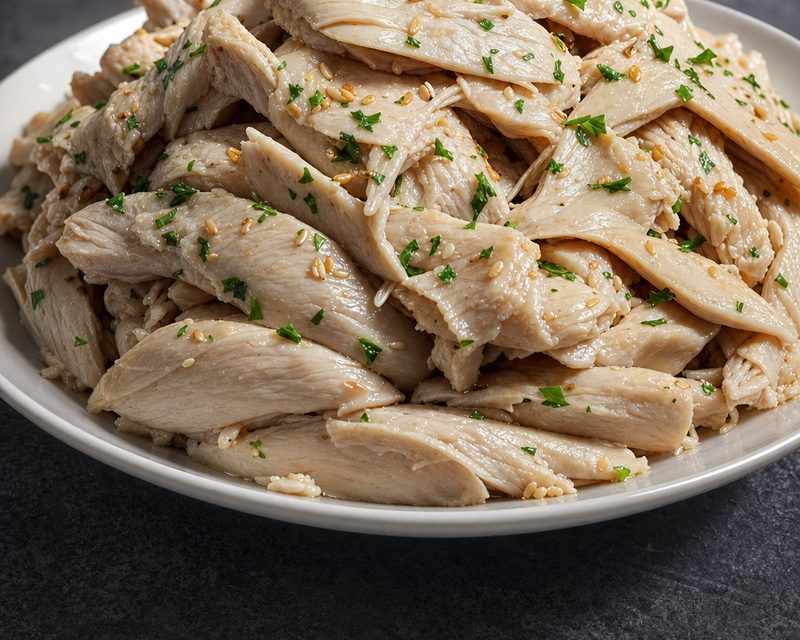
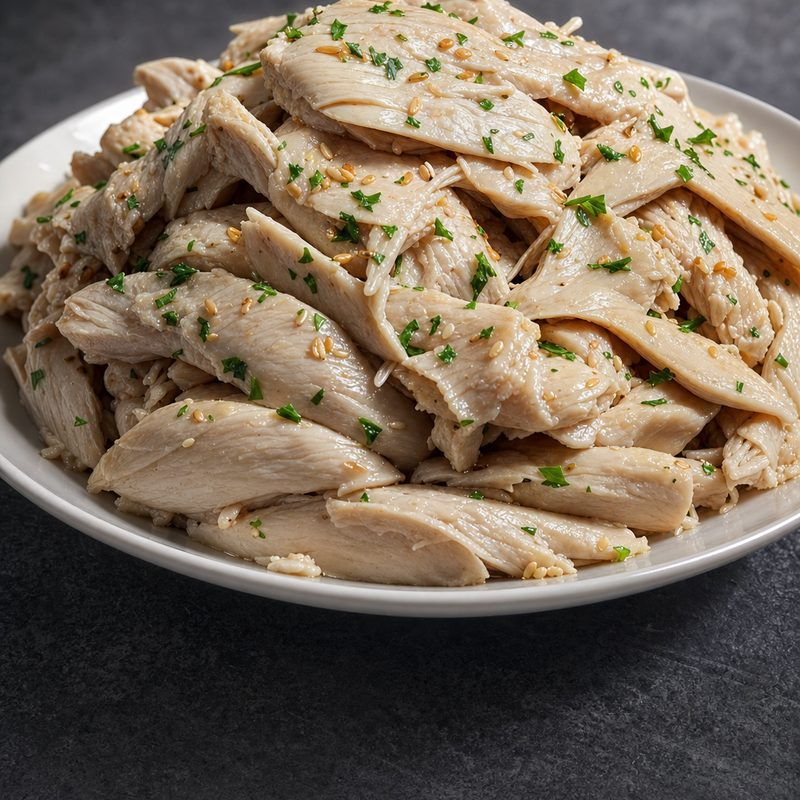
landing: 대표 이미지(1:1) 백필 — r/001~012 hero 추가, 크롭 800x800 통일
발행이 이미지 생성보다 먼저라 hero가 매번 빠지던 문제의 소급 적용.
(생성기 쪽은 이미지 완성 시 자동 재발행으로 수정됨)

diff --git a/index.html b/index.html
@@ -12,23 +12,23 @@
   <p class="intro">다이어트 · 저칼로리 · 건강식 레시피<br>댓글 키워드 남기면 DM으로 보내드려요 🧡</p>
   <div class="grid">
   <a class="card" href="r/012/">
-    <div class="noimg">🍜</div>
+    <img src="r/012/food.jpg" alt="" loading="lazy">
     <div class="meta"><span class="no">012</span><span class="tt">소지섭 감량 닭가슴살</span></div>
   </a>
   <a class="card" href="r/011/">
-    <div class="noimg">🍜</div>
+    <img src="r/011/food.jpg" alt="" loading="lazy">
     <div class="meta"><span class="no">011</span><span class="tt">원볼 토마토 마운자로 샐러드</span></div>
   </a>
   <a class="card" href="r/010/">
-    <div class="noimg">🍜</div>
+    <img src="r/010/food.jpg" alt="" loading="lazy">
     <div class="meta"><span class="no">010</span><span class="tt">오이 요거트 무침</span></div>
   </a>
   <a class="card" href="r/009/">
-    <div class="noimg">🍜</div>
+    <img src="r/009/food.jpg" alt="" loading="lazy">
     <div class="meta"><span class="no">009</span><span class="tt">귀리라떼</span></div>
   </a>
   <a class="card" href="r/008/">
-    <div class="noimg">🍜</div>
+    <img src="r/008/food.jpg" alt="" loading="lazy">
     <div class="meta"><span class="no">008</span><span class="tt">바삭 소고기 라이스페이퍼롤</span></div>
   </a>
   <a class="card" href="r/007/">
@@ -40,7 +40,7 @@
     <div class="meta"><span class="no">006</span><span class="tt">얼린 토마토 냉국수</span></div>
   </a>
   <a class="card" href="r/005/">
-    <div class="noimg">🍜</div>
+    <img src="r/005/food.jpg" alt="" loading="lazy">
     <div class="meta"><span class="no">005</span><span class="tt">레몬 생강 디톡스 워터</span></div>
   </a>
   <a class="card" href="r/004/">
@@ -52,7 +52,7 @@
     <div class="meta"><span class="no">003</span><span class="tt">차즈키 소스</span></div>
   </a>
   <a class="card" href="r/002/">
-    <div class="noimg">🍜</div>
+    <img src="r/002/food.jpg" alt="" loading="lazy">
     <div class="meta"><span class="no">002</span><span class="tt">꿀맛 닭가슴살</span></div>
   </a>
   <a class="card" href="r/001/">

diff --git a/assets/style.css b/assets/style.css
@@ -11,7 +11,7 @@ h1{font-size:26px;line-height:1.35;margin:10px 0 8px;letter-spacing:-.5px}
 h2{font-size:19px;margin:26px 0 10px}
 h3{font-size:15px;margin:16px 0 4px;color:#8a7a66}
 .intro{color:#6f6152;margin-bottom:12px}
-.hero{width:100%;border-radius:16px;display:block;margin:8px 0 10px}
+.hero{width:100%;aspect-ratio:1/1;object-fit:cover;border-radius:16px;display:block;margin:8px 0 10px}
 .disc{font-size:12px;color:#b3a693}
 .disc.top{margin-bottom:14px}
 .box{background:#fff;border:1.5px solid var(--line);border-radius:16px;padding:18px;margin:14px 0;text-align:center}

diff --git a/r/002/index.html b/r/002/index.html
@@ -12,6 +12,7 @@
   <h1>꿀맛 닭가슴살</h1>
   <p class="intro">퍽퍽한 닭가슴살이<br>양념 1큰술로 꿀맛 반찬이 되는 레시피예요.</p>
   
+  <img class="hero" src="food.jpg" alt="꿀맛 닭가슴살">
   <p class="disc top">쿠팡 파트너스 활동의 일환으로, 수수료를 제공받습니다.</p>
   
 <section class="box secret">

diff --git a/r/005/index.html b/r/005/index.html
@@ -12,6 +12,7 @@
   <h1>레몬 생강 디톡스 워터</h1>
   <p class="intro">물에 두 스푼만 타면 끝나는<br>아침 붓기 케어 디톡스 워터예요.</p>
   
+  <img class="hero" src="food.jpg" alt="레몬 생강 디톡스 워터">
   <p class="disc top">쿠팡 파트너스 활동의 일환으로, 수수료를 제공받습니다.</p>
   
 <section class="box secret">

diff --git a/r/008/index.html b/r/008/index.html
@@ -12,6 +12,7 @@
   <h1>바삭 소고기 라이스페이퍼롤</h1>
   <p class="intro">튀김옷 없이 라이스페이퍼로 만드는<br>겉바속촉 다이어트 롤이에요.</p>
   
+  <img class="hero" src="food.jpg" alt="바삭 소고기 라이스페이퍼롤">
   <p class="disc top">쿠팡 파트너스 활동의 일환으로, 수수료를 제공받습니다.</p>
   
 <section class="box secret">

diff --git a/r/009/index.html b/r/009/index.html
@@ -12,6 +12,7 @@
   <h1>귀리라떼</h1>
   <p class="intro">우유 대신 비밀재료로 만드는 고소한 라떼예요.<br>칼로리는 확 낮추고 포만감은 반나절 가요.</p>
   
+  <img class="hero" src="food.jpg" alt="귀리라떼">
   <p class="disc top">쿠팡 파트너스 활동의 일환으로, 수수료를 제공받습니다.</p>
   
 <section class="box secret">

diff --git a/r/010/index.html b/r/010/index.html
@@ -12,6 +12,7 @@
   <h1>오이 요거트 무침</h1>
   <p class="intro">틱톡 1억뷰 터진 그 오이 레시피.<br>불 없이 5분, 아삭하고 산뜻하게 한 그릇!</p>
   
+  <img class="hero" src="food.jpg" alt="오이 요거트 무침">
   <p class="disc top">쿠팡 파트너스 활동의 일환으로, 수수료를 제공받습니다.</p>
   
 <section class="box secret">

diff --git a/r/011/index.html b/r/011/index.html
@@ -12,6 +12,7 @@
   <h1>원볼 토마토 마운자로 샐러드</h1>
   <p class="intro">볼 하나로 끝내는<br>초저칼로리 토마토 샐러드예요.</p>
   
+  <img class="hero" src="food.jpg" alt="원볼 토마토 마운자로 샐러드">
   <p class="disc top">쿠팡 파트너스 활동의 일환으로, 수수료를 제공받습니다.</p>
   
 <section class="box secret">

diff --git a/r/012/index.html b/r/012/index.html
@@ -12,6 +12,7 @@
   <h1>소지섭 감량 닭가슴살</h1>
   <p class="intro">퍽퍽한 닭가슴살이<br>양념 1큰술로 반찬처럼 맛있어지는 감량 레시피예요.</p>
   
+  <img class="hero" src="food.jpg" alt="소지섭 감량 닭가슴살">
   <p class="disc top">쿠팡 파트너스 활동의 일환으로, 수수료를 제공받습니다.</p>
   
 <section class="box secret">